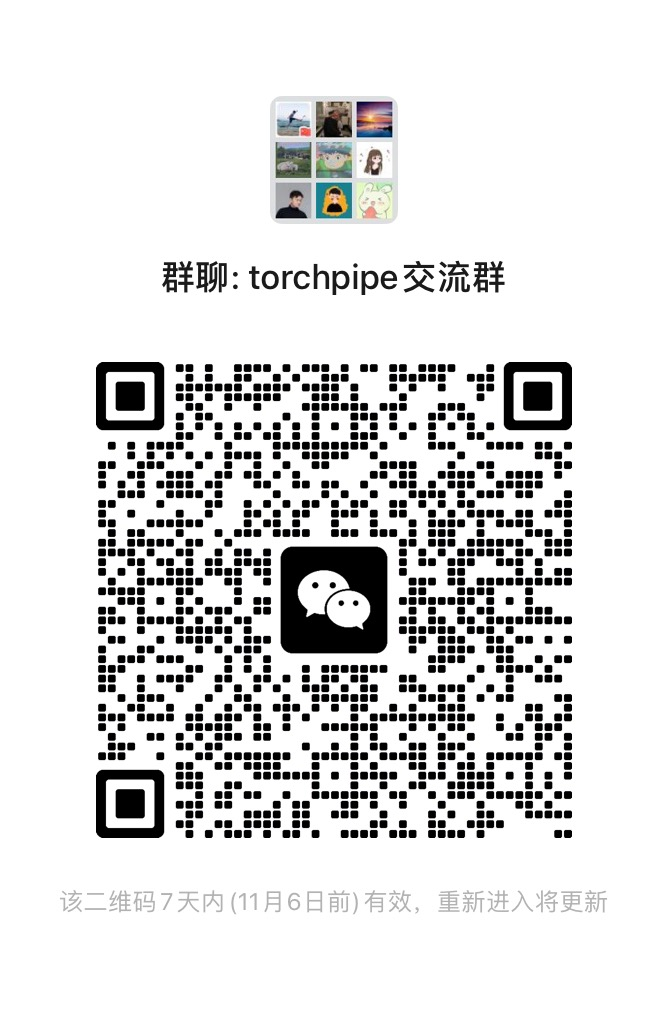
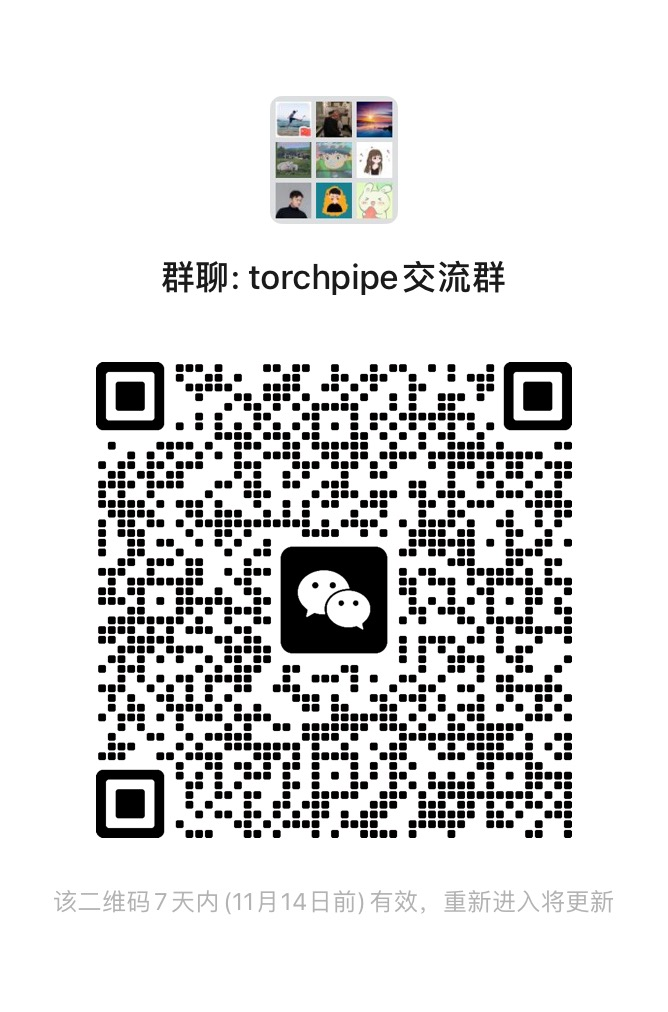
add wechat grp

diff --git a/i18n/zh/docusaurus-plugin-content-docs/current/contribution_guide/communicate.md b/i18n/zh/docusaurus-plugin-content-docs/current/contribution_guide/communicate.md
@@ -8,3 +8,5 @@ type: reference
 
 # 交流 & 答疑
 ![Alt text](../assets/image.jpg)
+
+如果以上途径失效，可以添加微信billom拉群，备注torchpipe
